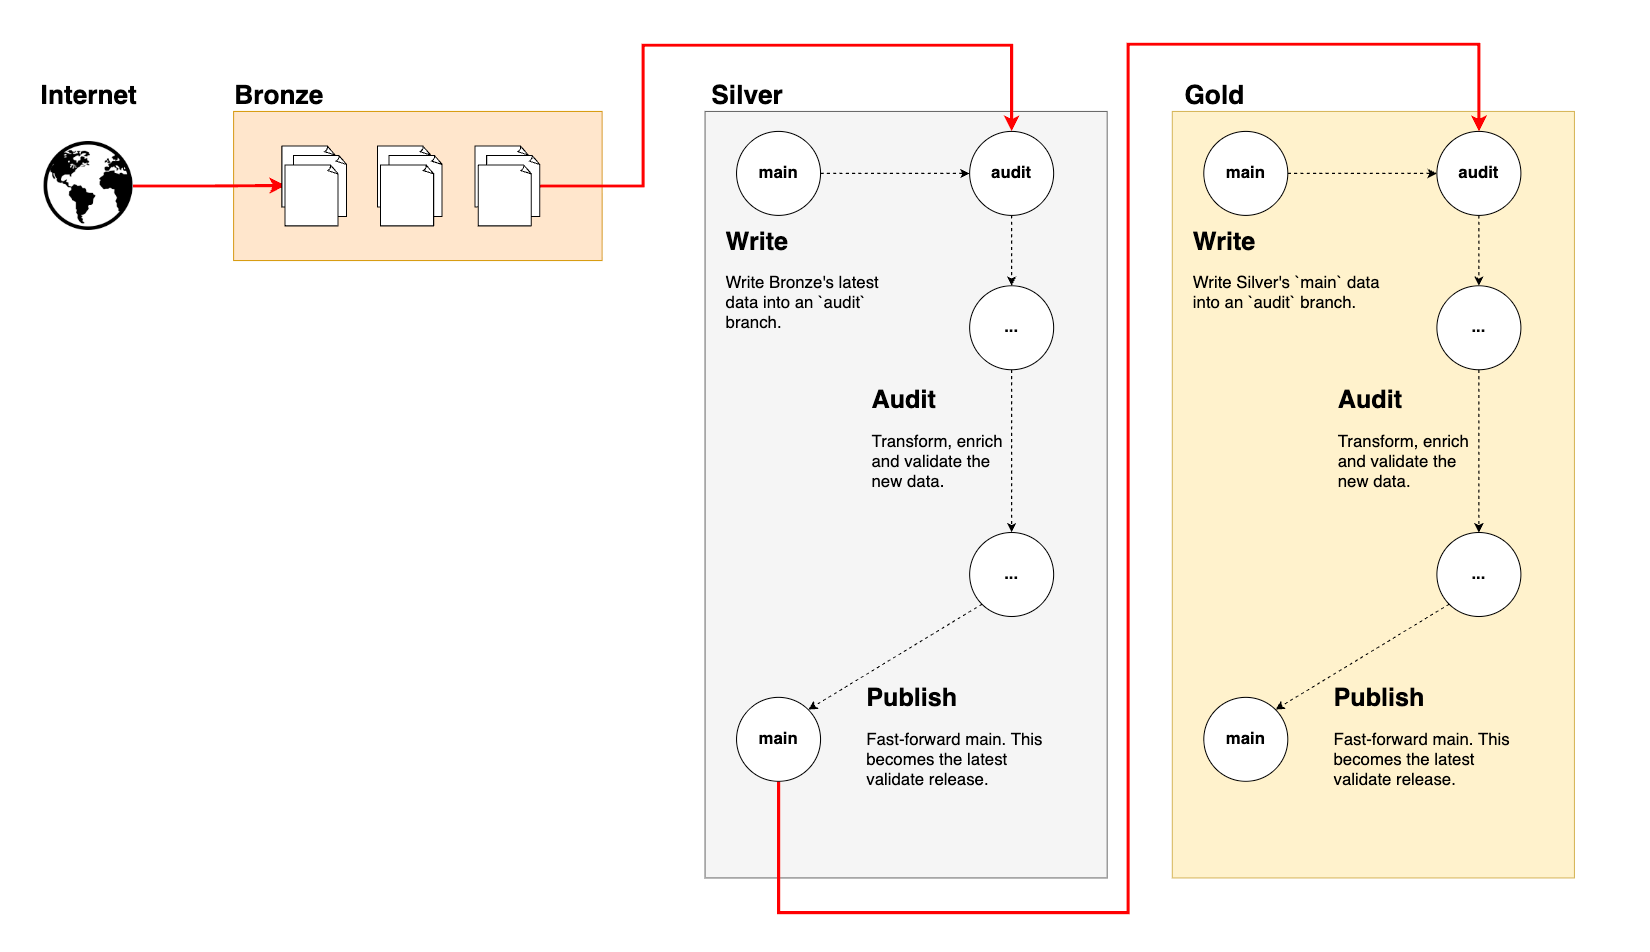
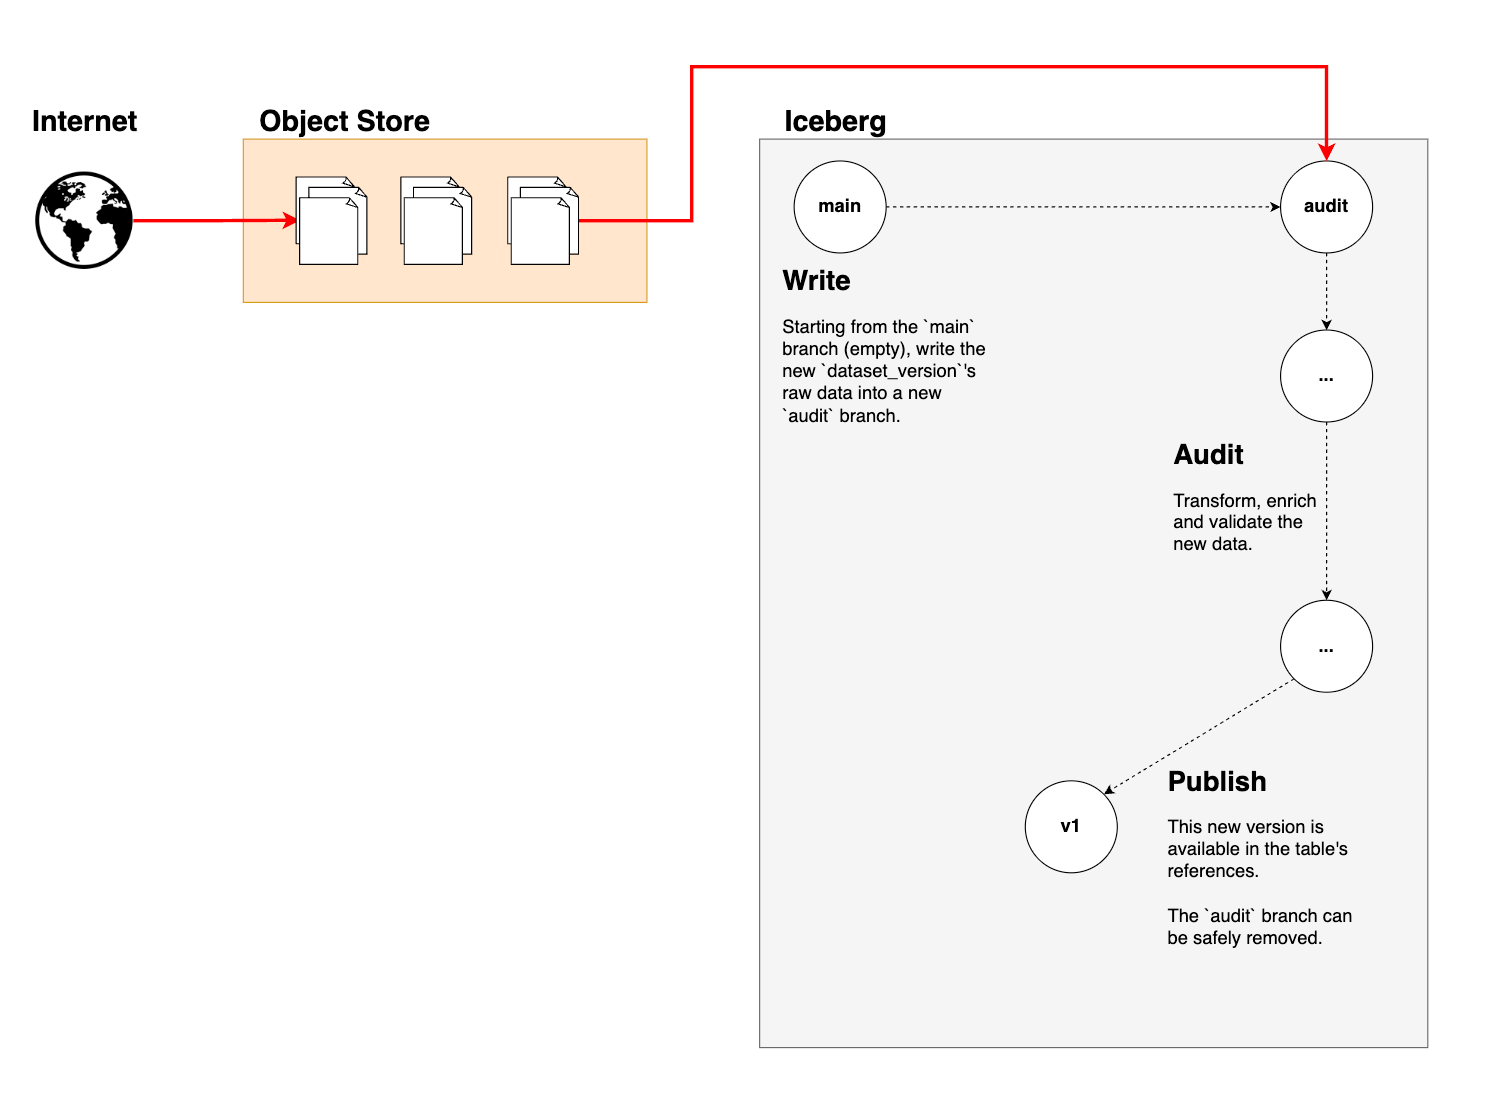
feat: SJRA-1546 remove medallion and update branch usage

diff --git a/doc/implementation-manuals/SJRA-1546-tables-evolution.md b/doc/implementation-manuals/SJRA-1546-tables-evolution.md
@@ -2,7 +2,8 @@
 
 ## Versions
 
-- 2026-06-02: Initial draft
+- 2026-06-08: Update post-initial draft review.
+- 2026-06-02: Initial draft.
 
 ## 1. Introduction
 
@@ -55,36 +56,36 @@ And at the same time, another Iceberg table `Example_v2` (schema `MAJOR` version
 
 ## 2. Data Architecture
 
-### 2.1 Medallion Architecture
+### 2.1 Using Iceberg branches for each `dataset_version`
 
-3-layer separation:
+Each `dataset_version` will be stored as a unique branch of a table.
 
-- **Bronze**: (Object store/S3) Raw files and artifacts.
-- **Silver**: (Iceberg) Space where transformations and enrichments take place. 
-- **Gold**: (Iceberg) Holds the consumable release of the data set (with all the transformations and enrichments applied).
+**Data Updates using Write-Audit-Publish pattern (WAP)**:
 
-**Important points**:
-- Both **Silver** and **Gold** have their own Iceberg tables. 
-- **Silver** is an internal/private table used for ETL purposes.
-- **Gold** is the user facing, "safe" (validated) release of the data set. 
-
-### 2.2 Write-Audit-Publish (WAP) ingestion pattern
-
-The Write-Audit-Pattern is a standard pattern supported by most Iceberg's catalog implementations. (At least the ones we are interested in)
+The WAP pattern is a standard pattern supported by most Iceberg's catalog implementations. (At least the ones we are interested in)
 (https://aws.amazon.com/fr/blogs/big-data/build-write-audit-publish-pattern-with-apache-iceberg-branching-and-aws-glue-data-quality/)
 
-The concept is simple, it uses two branches, `audit` and `main`. 
+The concept is simple, it uses two branches, for example `temporary-branch` and `permanent-branch`. 
 
-- `audit`: Staging area where changes take place. This is a temporary transient branch that is deleted once the changes are committed to `main`.
-- `main`: Area where changes end up. 
+- `temporary-branch`: Staging area where changes take place. This is a temporary transient branch that is created ad-hoc and deleted once the changes are committed to the permanent branch.
+- `permanent-branch`: Area where changes end up. This keeps the lineage.
 
-In the context of our medallion architecture, both **Silver** and **Gold** layers will have their separate WAP branches.
+**Important points**:
+
+- The `main` branch is an empty branch, used as the origin of new `dataset_version` based branches.
+
+**Import flow**:
+
+1. A new `audit` branch (temporary) is created from this empty `main` branch.
+2. Necessary operations (transforms, validations, enrichments, etc...) are executed on the `audit` branch.
+3. A new `v1` branch (permanent) is created from `audit` latest snapshot. 
+4. Branch `audit` is deleted.
 
 The following diagram describes the high-level data flow through the different medallion layers using the WAP pattern:
 
 ![data_flow.png](data_flow.png)
 
-### 2.3 Tagging the snapshots
+### 2.2 Tagging the snapshots
 
 Each new Iceberg snapshot will be tagged with the latest contract's `MAJOR.MINOR.PATCH` as well as the `latest` tag. 
 
